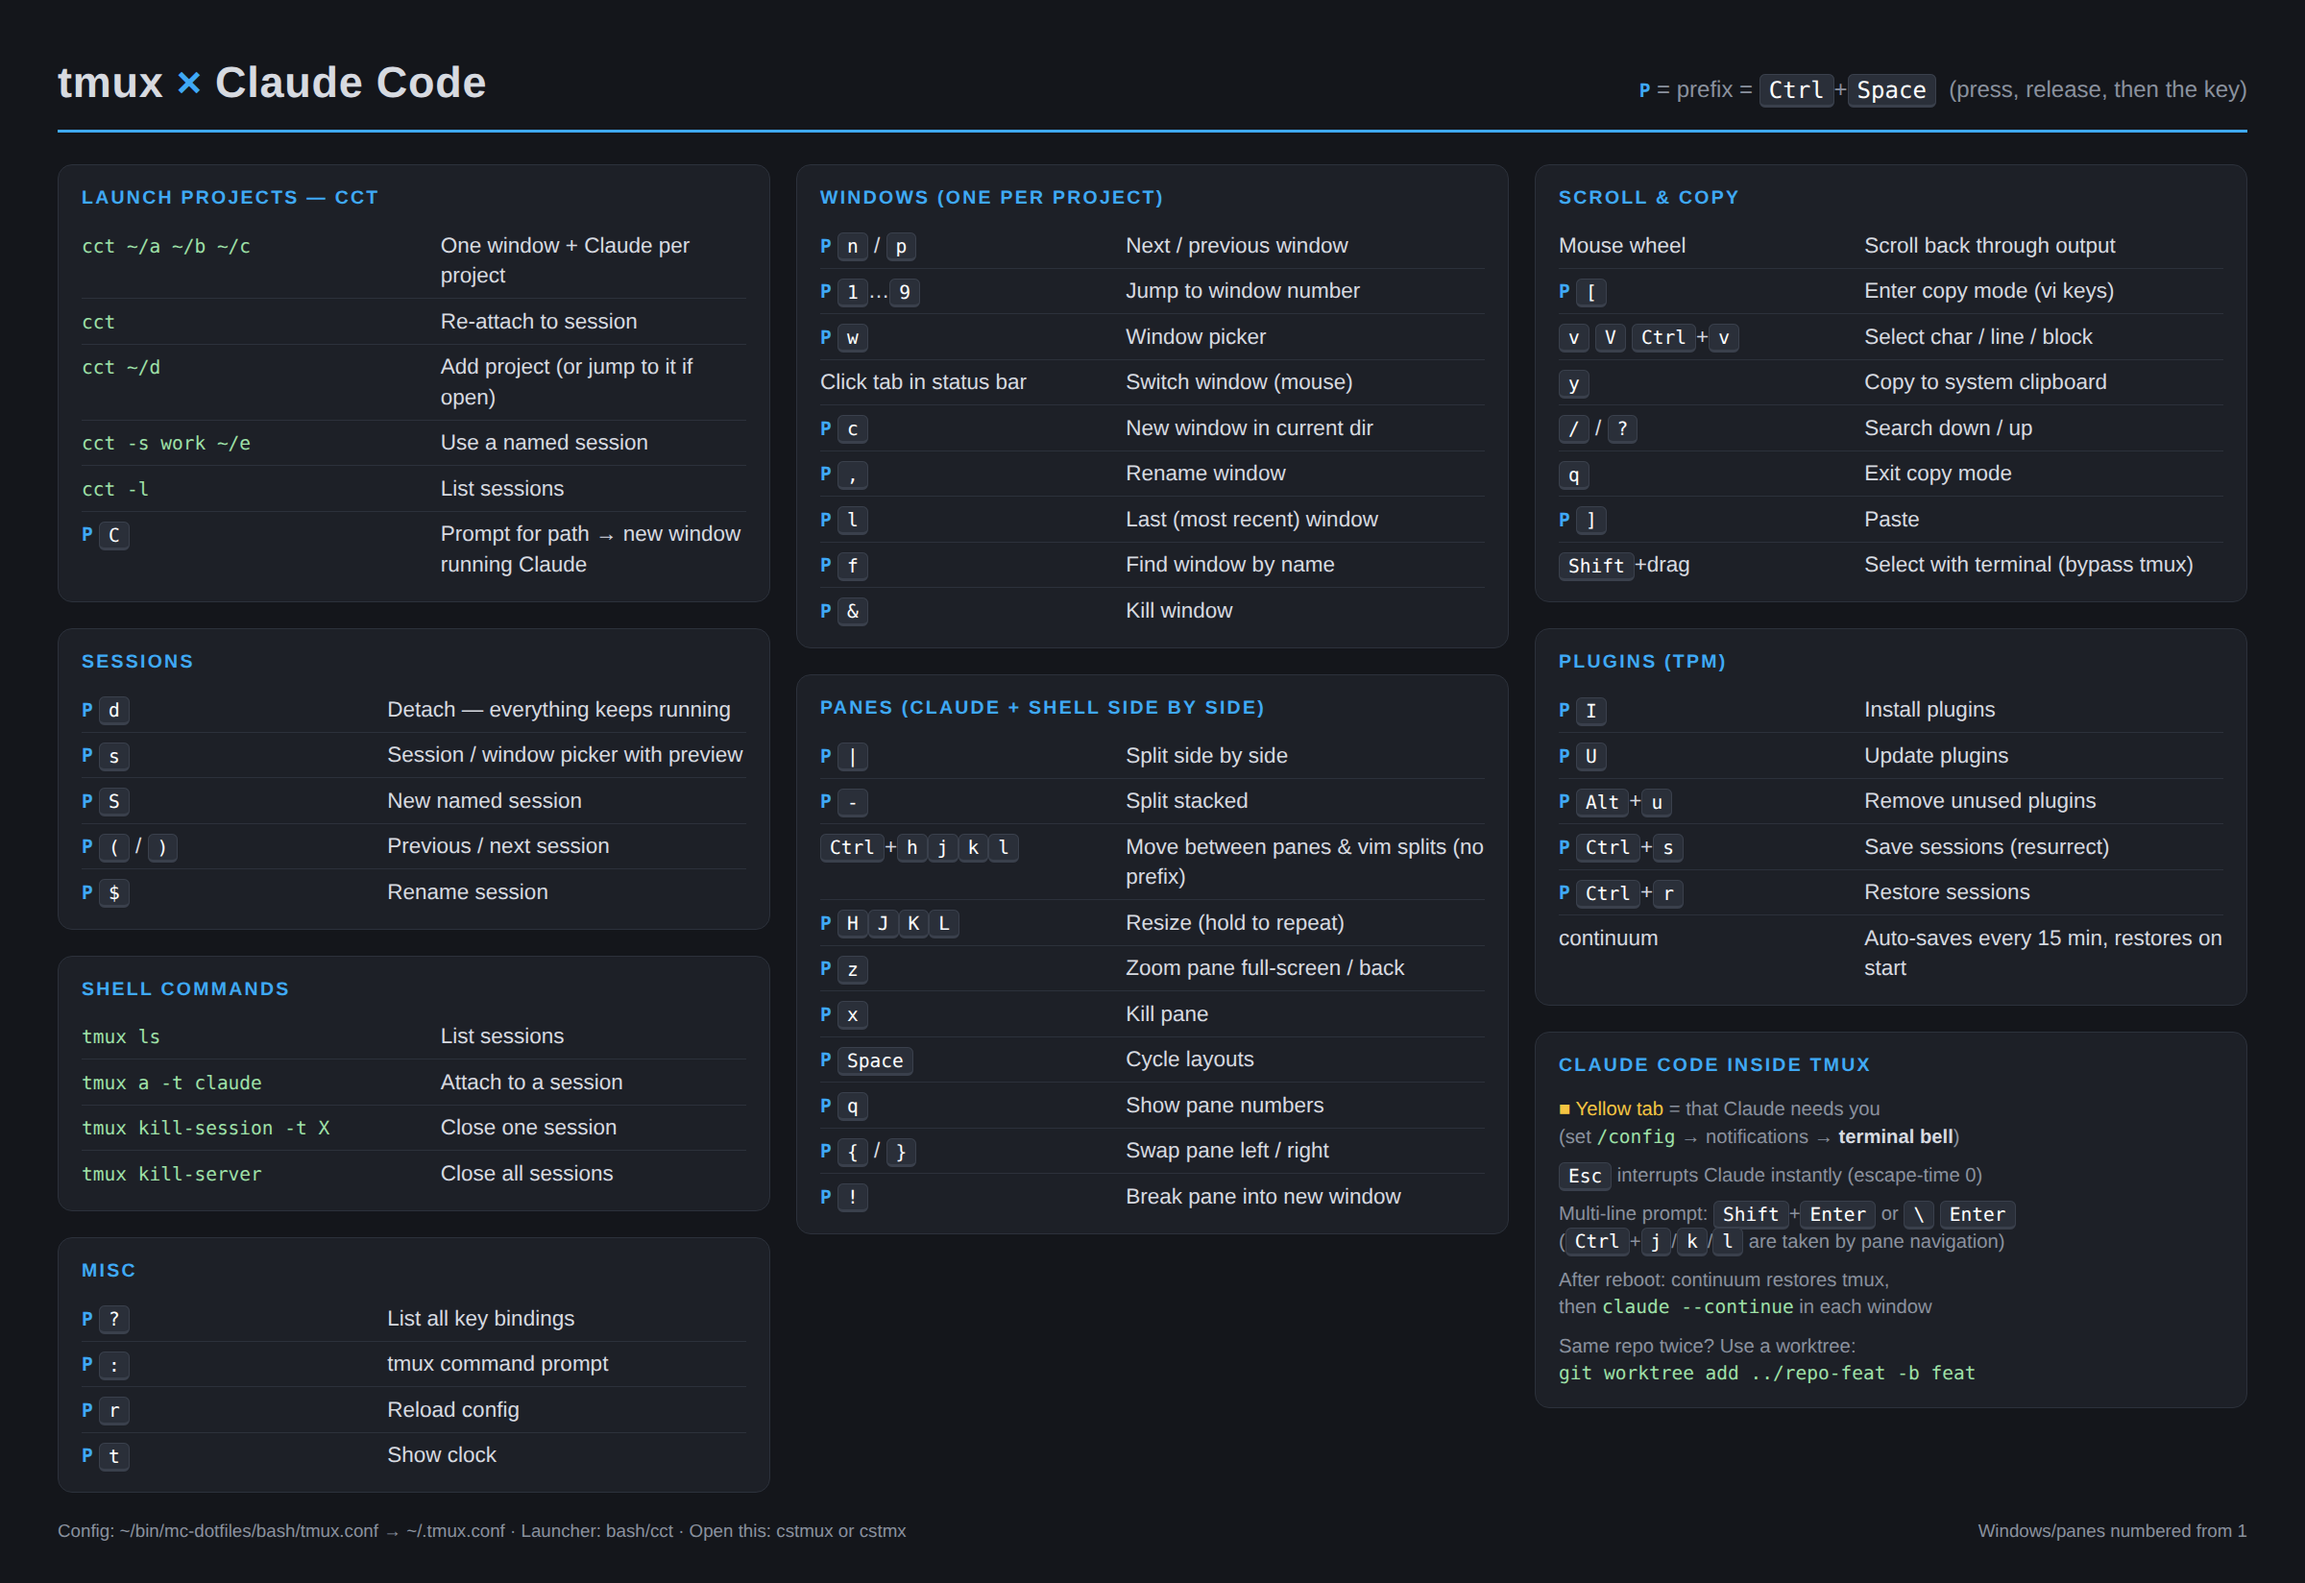
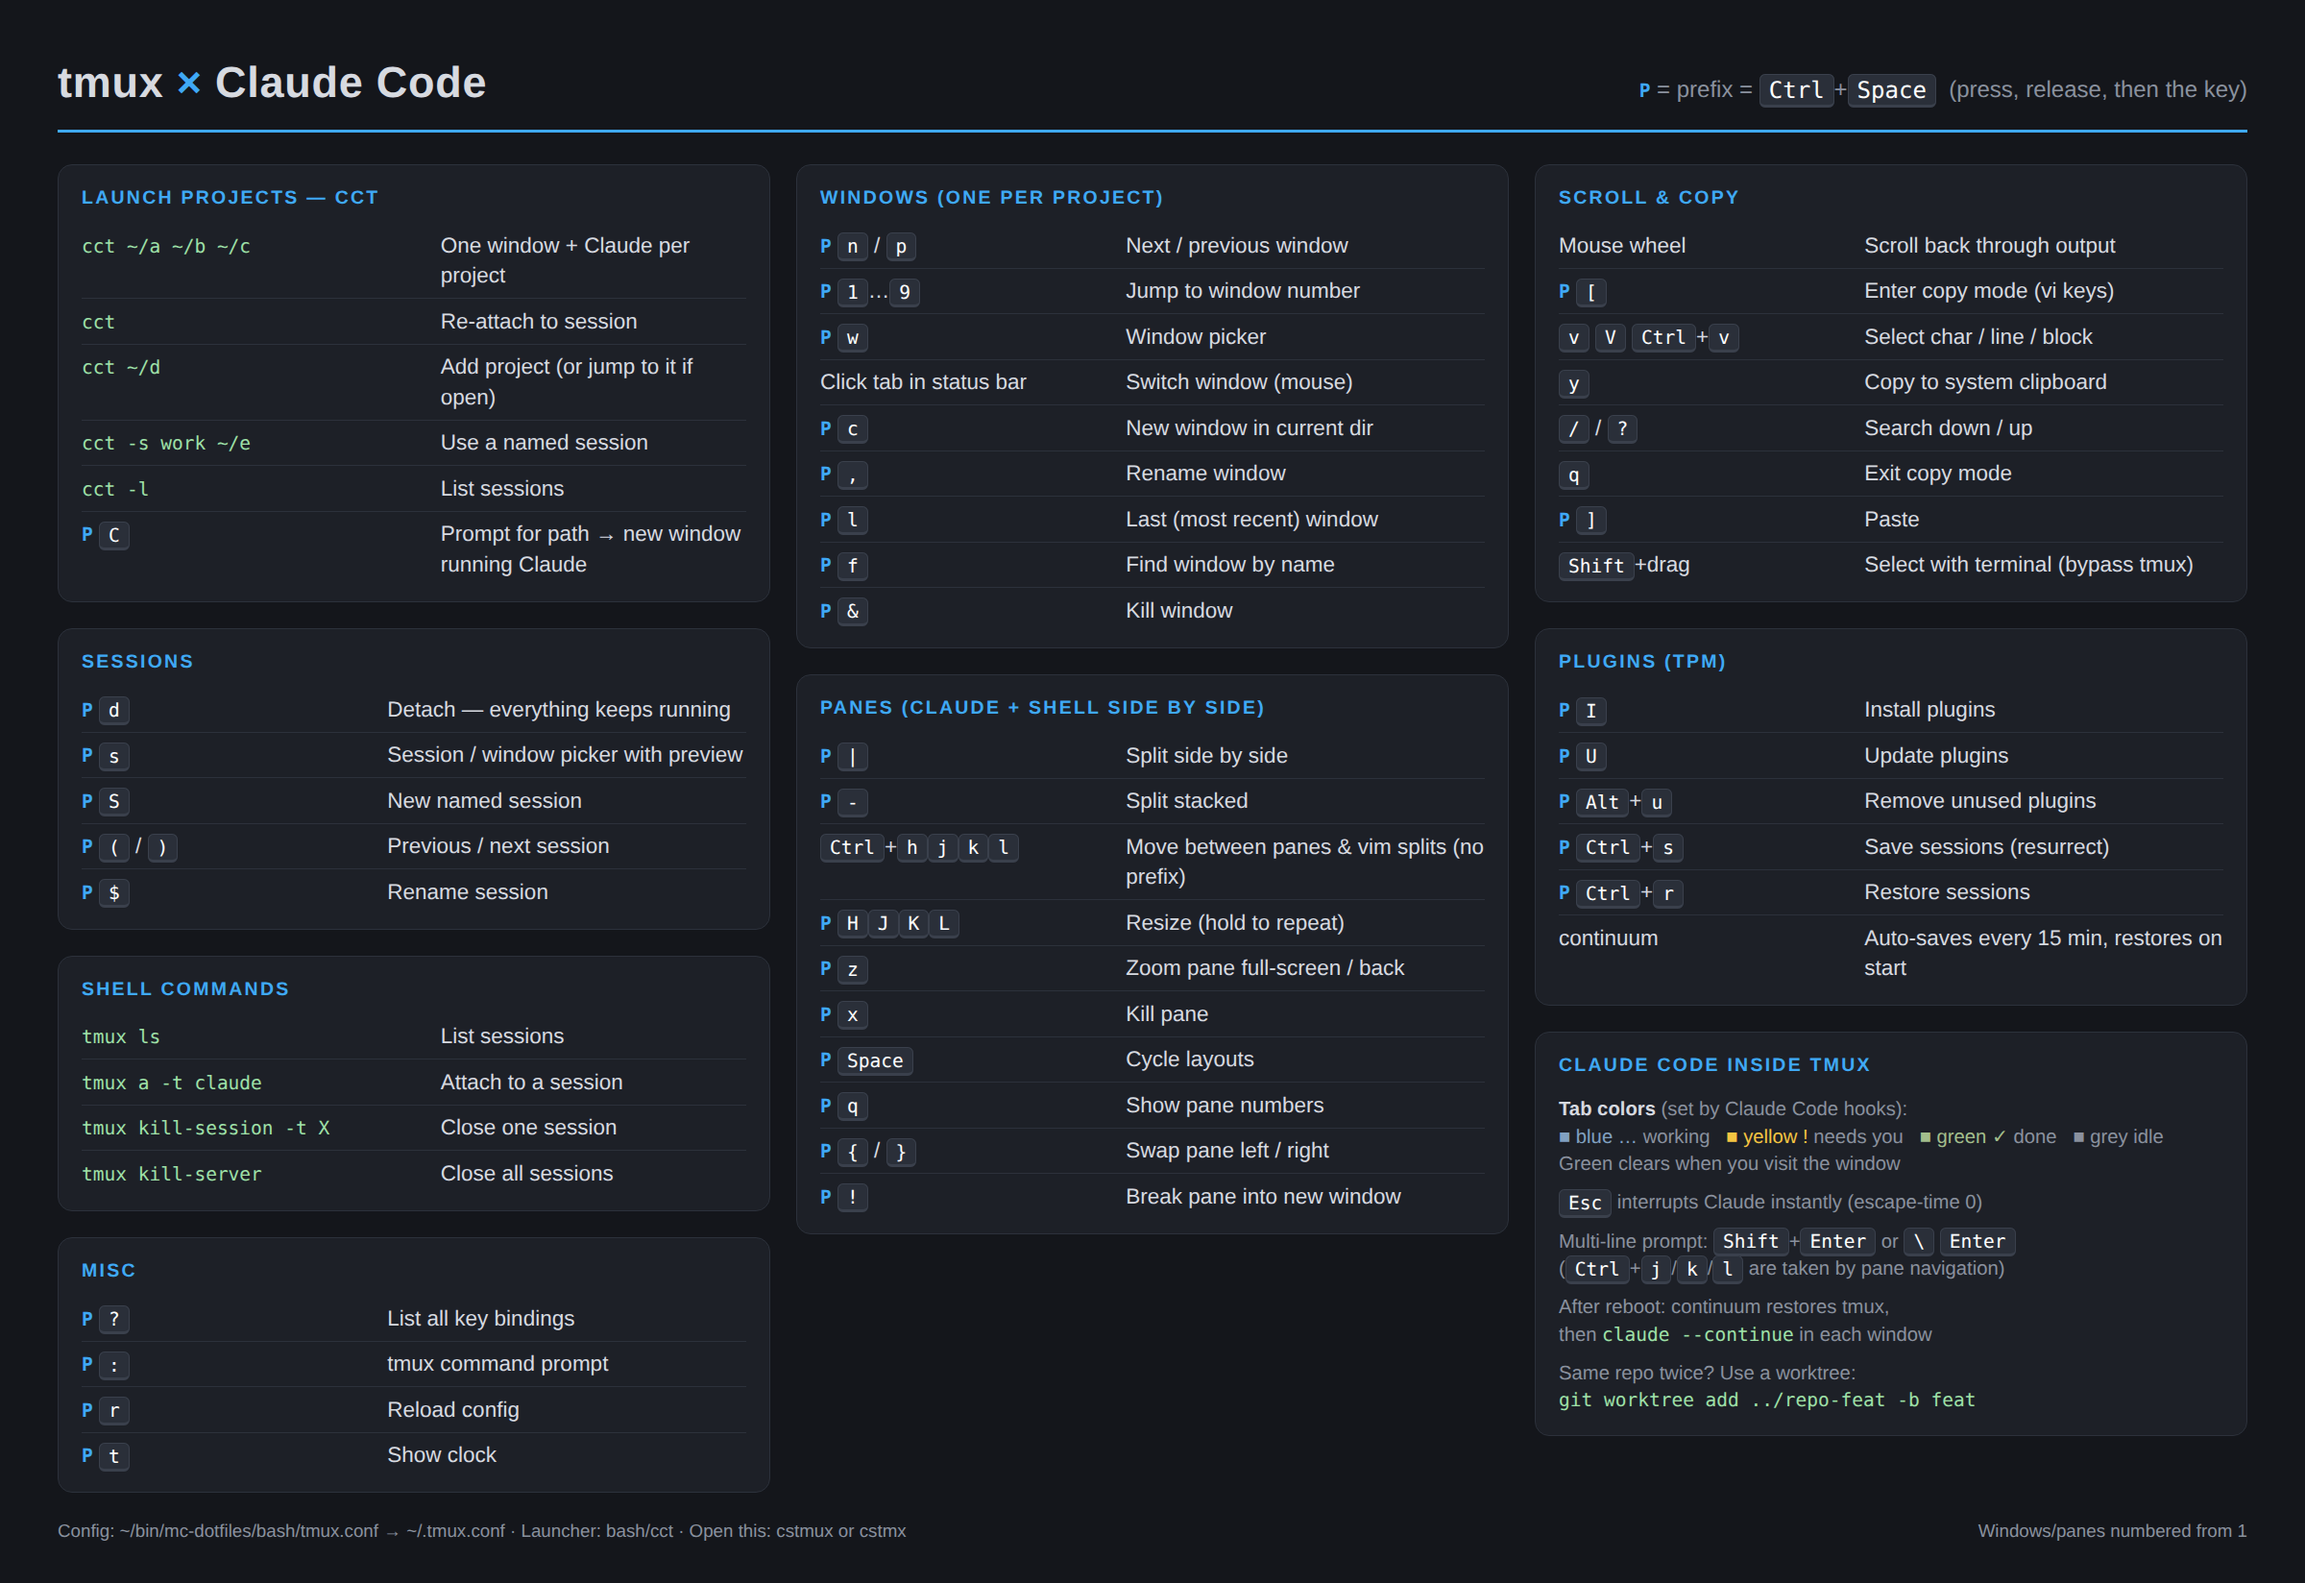
Claude Code tab colors, Nord theme for Claude and GNOME Terminal
- bash/claude-tmux-state: hook script that tags each tmux window with
  Claude's state (working/waiting/done/idle)
- claude/settings.hooks.json: hooks block to merge into ~/.claude/settings.json
- claude/themes/nord.json: custom Nord theme for Claude Code
- tmux.conf: state-colored window tabs (Nord palette), clear "done" on
  visit, nord-tmux plain-font mode
- config/nord-gnome-terminal.dconf: Nord profile for GNOME Terminal
- cheat sheet + README: tab color legend and setup steps

Changed region(s): [[0.6562, 0.6808, 0.9375, 0.8975]]

diff --git a/README.md b/README.md
@@ -28,7 +28,21 @@
 
 * `cct ~/proj-a ~/proj-b` — one tmux window per project, each running `claude` (`bash/cct`)
 * `cct` re-attaches; `cct -s name …` uses another session; `prefix + C` opens a project from inside tmux
-* In Claude Code `/config`, set notifications to **terminal bell** — a window waiting on you turns yellow
+* **Tab colors by Claude state** — `bash/claude-tmux-state` runs from Claude Code hooks and tags each tmux window:
+  blue `…` working · yellow `!` needs you · green `✓` done (clears when you visit) · grey idle.
+  Hooks live in `~/.claude/settings.json` (SessionStart, UserPromptSubmit, PreToolUse, PostToolUse,
+  Notification `permission_prompt|elicitation_dialog`, Stop, SessionEnd), each running
+  `~/bin/mc-dotfiles/bash/claude-tmux-state`. Needs `jq`.
+* **Claude Code Nord theme:** `claude/themes/nord.json` (works on macOS and Linux)
+  `mkdir -p ~/.claude/themes && ln -s ~/bin/mc-dotfiles/claude/themes/nord.json ~/.claude/themes/nord.json`
+  then pick **Nord** in `/theme` (or `"theme": "custom:nord"` in `~/.claude/settings.json`)
+* **Claude Code hooks (tab colors):** merge `claude/settings.hooks.json` into `~/.claude/settings.json`
+  (don't symlink settings.json — Claude rewrites it):
+  `jq -s '.[0] * .[1]' ~/.claude/settings.json ~/bin/mc-dotfiles/claude/settings.hooks.json > /tmp/s.json && mv /tmp/s.json ~/.claude/settings.json`
+  macOS needs `brew install jq`
+* **Nord terminal (GNOME Terminal):** nord-tmux uses the terminal's palette, so load the Nord profile:
+  `uuid=$(uuidgen); dconf load /org/gnome/terminal/legacy/profiles:/:$uuid/ < config/nord-gnome-terminal.dconf`
+  then add `$uuid` to `org.gnome.Terminal.ProfilesList list` (or pick it in Preferences)
 * Cheat sheet: `cstmux` or `cstmx` (tmux + Claude Code, `cheat/cs-tmux.png`)
 
 
